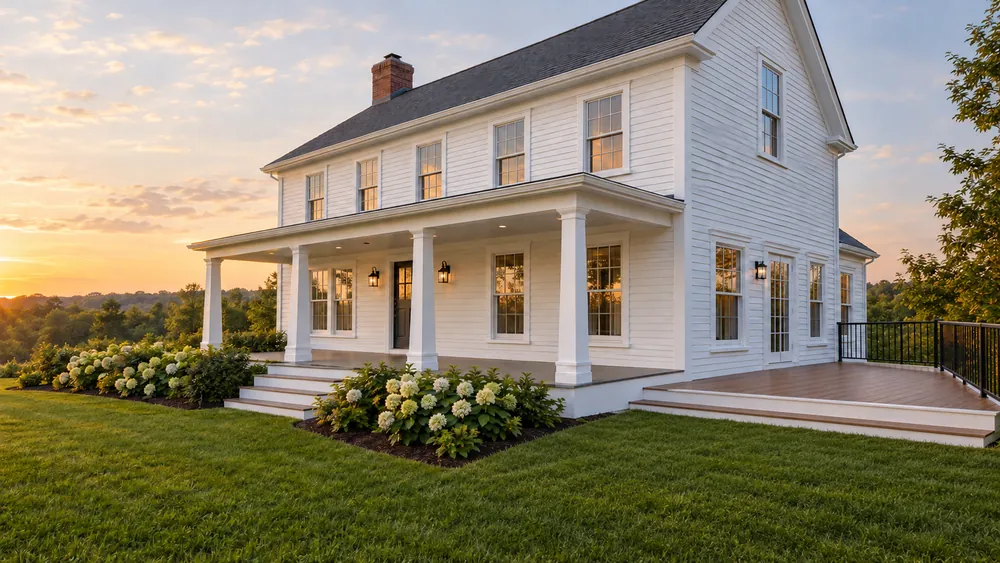
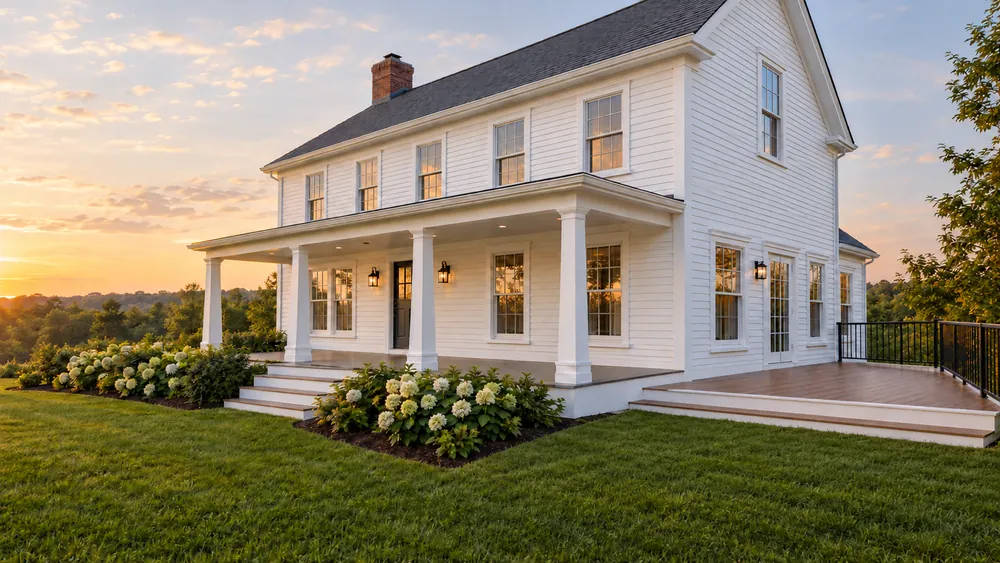
House hero: straighten warped siding courses

diff --git a/index.html b/index.html
@@ -55,7 +55,7 @@
       rel="stylesheet"
     />
     <!-- Hero preload: house hero is active. For slider mode, swap to the commented line. -->
-    <link rel="preload" as="image" type="image/webp" imagesrcset="./images/house_hero/house-640.webp?v=2 640w, ./images/house_hero/house-1000.webp?v=2 1000w, ./images/house_hero/house-1672.webp?v=2 1672w" imagesizes="100vw" fetchpriority="high" />
+    <link rel="preload" as="image" type="image/webp" imagesrcset="./images/house_hero/house-640.webp?v=3 640w, ./images/house_hero/house-1000.webp?v=3 1000w, ./images/house_hero/house-1672.webp?v=3 1672w" imagesizes="100vw" fetchpriority="high" />
     <!-- <link rel="preload" as="image" type="image/webp" imagesrcset="./images/hero_deck-1000.webp 1000w, ./images/hero_deck-1600.webp 1600w, ./images/hero_deck.webp 2400w" imagesizes="100vw" fetchpriority="high" /> -->
 
     <link rel="stylesheet" href="./css/base.css" />
@@ -288,8 +288,8 @@
       <section class="house-hero" aria-labelledby="house-hero-title" data-house-hero>
         <div class="house-stage" data-house-stage>
           <picture>
-            <source type="image/webp" srcset="./images/house_hero/house-640.webp?v=2 640w, ./images/house_hero/house-1000.webp?v=2 1000w, ./images/house_hero/house-1672.webp?v=2 1672w" sizes="100vw" />
-            <img class="house-stage__img" src="./images/house_hero/house-1672.jpg?v=2" srcset="./images/house_hero/house-640.jpg?v=2 640w, ./images/house_hero/house-1000.jpg?v=2 1000w, ./images/house_hero/house-1672.jpg?v=2 1672w" sizes="100vw" width="1672" height="941" fetchpriority="high" decoding="async" alt="White colonial home with a covered front porch, a large brown PVC deck, and crisp white PVC window trim at sunset. Select a highlighted area to explore that product line." />
+            <source type="image/webp" srcset="./images/house_hero/house-640.webp?v=3 640w, ./images/house_hero/house-1000.webp?v=3 1000w, ./images/house_hero/house-1672.webp?v=3 1672w" sizes="100vw" />
+            <img class="house-stage__img" src="./images/house_hero/house-1672.jpg?v=3" srcset="./images/house_hero/house-640.jpg?v=3 640w, ./images/house_hero/house-1000.jpg?v=3 1000w, ./images/house_hero/house-1672.jpg?v=3 1672w" sizes="100vw" width="1672" height="941" fetchpriority="high" decoding="async" alt="White colonial home with a covered front porch, a large brown PVC deck, and crisp white PVC window trim at sunset. Select a highlighted area to explore that product line." />
           </picture>
 
           <svg class="house-zones" viewBox="0 0 1200 675" preserveAspectRatio="xMaxYMid slice" aria-hidden="true" focusable="false" data-house-zones>
